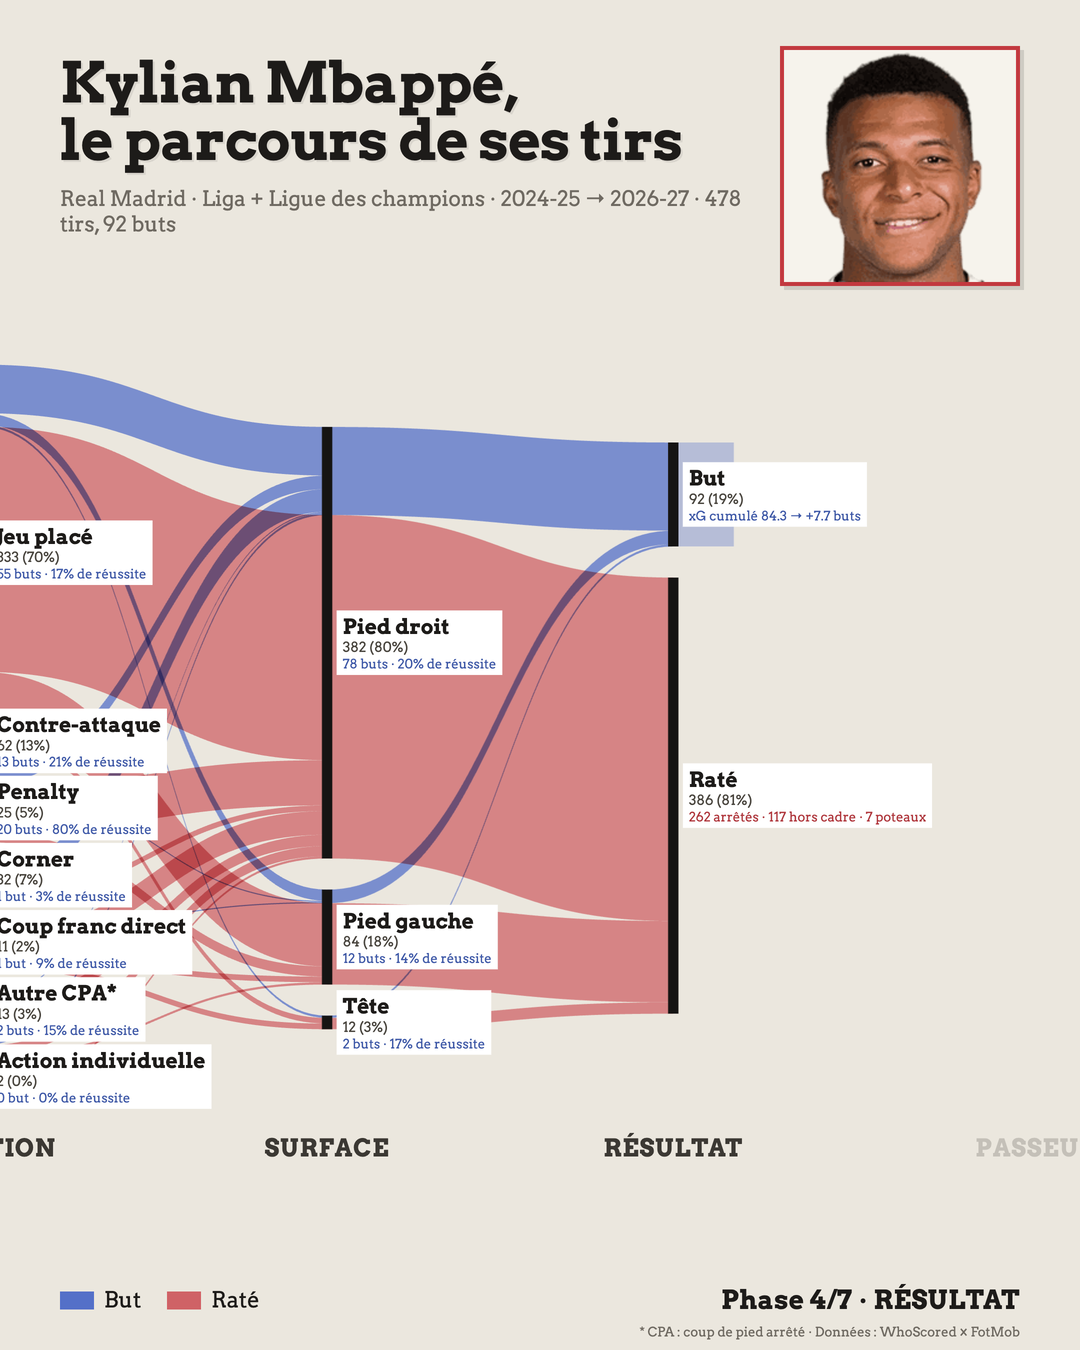
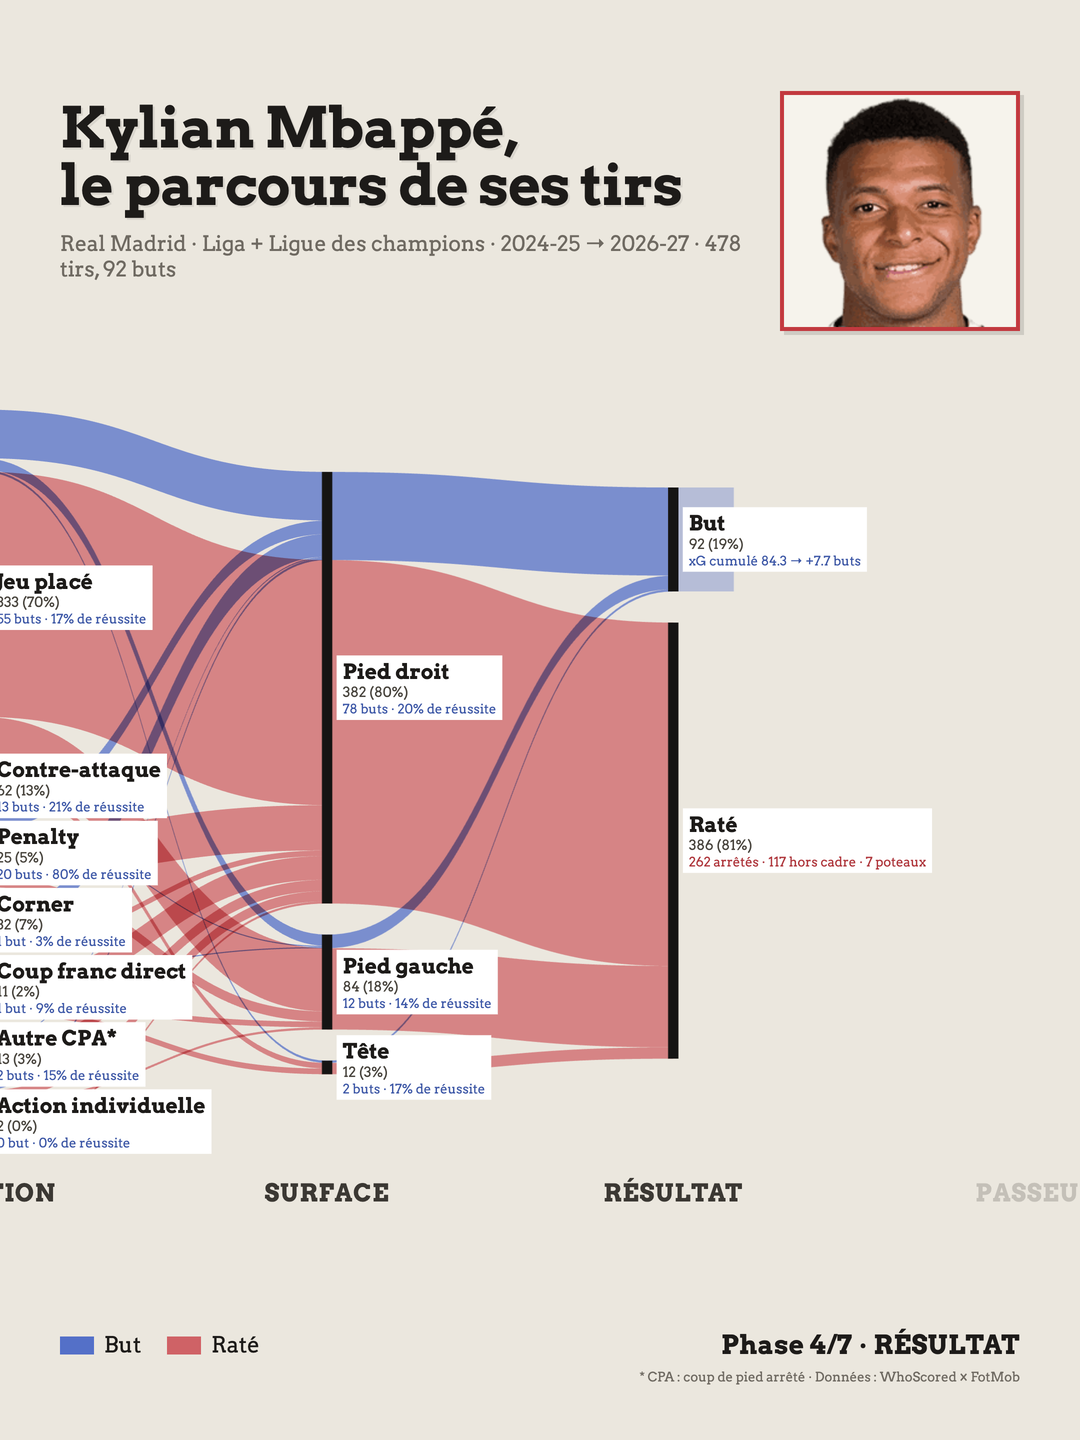
fix: carrousel Instagram en 3:4 (1080×1440) pour éviter le recadrage

diff --git a/render_collage.js b/render_collage.js
@@ -1,4 +1,4 @@
-// Carrousel Instagram (1080×1350) et TikTok (1080×1920) : la fresque complète, puis une image par phase.
+// Carrousel Instagram (1080×1440, format 3:4 des publications) et TikTok (1080×1920) : la fresque complète, puis une image par phase.
 //   node visuel_mbappe/render_collage.js   -> visuel_mbappe/collage/instagram_1..8.png, tiktok_1..8.png
 // Les images viennent du mode vidéo de fresque_interactive.html (?video=1) : chaque phase à la fin de son ouverture,
 // la fresque entière à la fin de la vidéo. Rendu en ×2 puis réduit, sans la grille du fond.
@@ -25,8 +25,8 @@ const OUT = path.join(__dirname, 'collage');
     await new Promise(r => setTimeout(r, 120));
     const hd = path.join(OUT, `_hd_${i + 1}.png`);
     await page.screenshot({ path: hd });
-    // Instagram 4:5, puis TikTok 9:16 (même image au centre, bandes beiges en haut et en bas)
-    execFileSync('ffmpeg', ['-y', '-loglevel', 'error', '-i', hd, '-vf', 'scale=1080:1350:flags=lanczos', path.join(OUT, `instagram_${i + 1}.png`)]);
+    // Instagram 3:4 (1080×1440, sinon Instagram recadre), puis TikTok 9:16 (même image au centre, bandes beiges en haut et en bas)
+    execFileSync('ffmpeg', ['-y', '-loglevel', 'error', '-i', hd, '-vf', 'scale=1080:1350:flags=lanczos,pad=1080:1440:0:45:color=0xebe7de', path.join(OUT, `instagram_${i + 1}.png`)]);
     execFileSync('ffmpeg', ['-y', '-loglevel', 'error', '-i', hd, '-vf', 'scale=1080:1350:flags=lanczos,pad=1080:1920:0:285:color=0xebe7de', path.join(OUT, `tiktok_${i + 1}.png`)]);
     fs.unlinkSync(hd);
   }

diff --git a/README.md b/README.md
@@ -110,7 +110,7 @@ ouverte. La fin recule pour montrer toute la fresque. Les durées se règlent da
 ## 6. Carrousel Instagram / TikTok : `render_collage.js`
 
 ```bash
-node visuel_mbappe/render_collage.js   # -> collage/instagram_1..8.png (1080×1350) et collage/tiktok_1..8.png (1080×1920)
+node visuel_mbappe/render_collage.js   # -> collage/instagram_1..8.png (1080×1440, le 3:4 des publications Instagram) et collage/tiktok_1..8.png (1080×1920)
 ```
 
 Visuel 1 : la fresque complète. Visuels 2 à 8 : une phase par image (zone, situation, surface, résultat, passeur,
